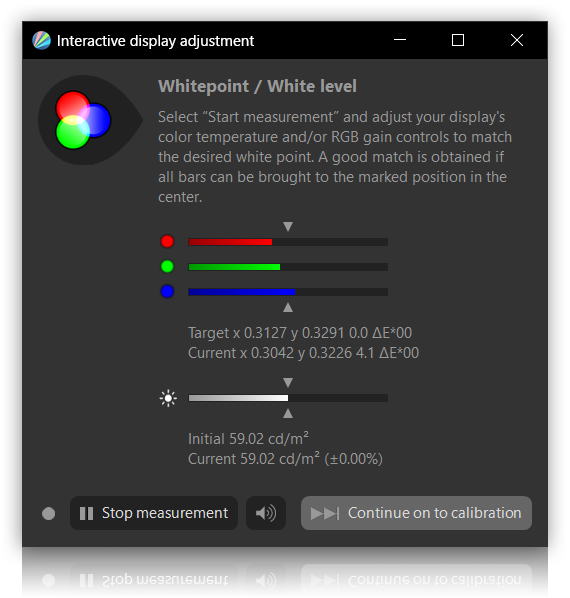
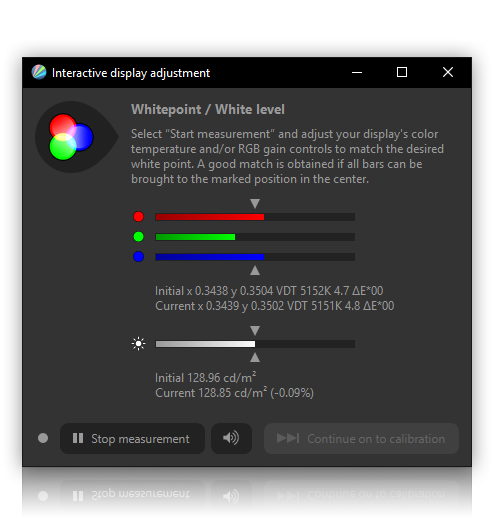
Update ReadMe teaser graphics: Use platform-specific assets
git-svn-id: https://svn.code.sf.net/p/dispcalgui/code/trunk@5109 6ae35eb0-b8ff-4ca7-919d-0ec1eff389cd

Changed region(s): [[0.0, 0.0, 0.9717, 0.9884], [0.4555, 0.834, 0.4858, 0.8649]]

diff --git a/theme/readme.js b/theme/readme.js
@@ -1,3 +1,10 @@
+(function () {
+	var protocol = location.protocol,
+		is_mac = navigator.userAgent.indexOf('Mac') > -1 || location.search.indexOf('is_mac') > -1,
+		is_win = (navigator.userAgent.indexOf('Windows') > -1 || location.search.indexOf('is_win') > -1) && location.search.indexOf('is_linux') < 0,
+		suffix = is_mac ? '-Mac' : (is_win ? '' : '-GNOME');
+	if (protocol == 'file:') protocol = 'https:';
+
 function $maketoggle(trigger_selector, toggle_selector, return_value) {
 	if (return_value == null) return_value = true;
 	$(trigger_selector).css('cursor', 'pointer').hover(function () {
@@ -32,13 +39,14 @@ function $makeslider(container_selector, toggle_selector, class_name, effect) {
 
 function $splash_anim(i, splash_frames) {
 	if (i == splash_frames.length) {
+		var width = (is_mac ? 816 : (is_win ? 752 : 762));
 		$('#splash').fadeOut(566, function () {
 			$('#splash_version_string, .splash_anim').hide();
 			$('#splash').addClass('folded');
 			$('#splash').css({'background-image': 'url(' + imgs.pop().src + ')',
-							  'background-size': '752px auto',
+							  'background-size': width + 'px auto',
 							  'display': 'block',
-							  'width': '760px', 'height': '660px', 'top': '42px'});
+							  'width': width + 'px', 'height': '660px', 'top': '42px'});
 			setTimeout(function () {
 				$('#splash').addClass('unfold');
 				if ($(window).height() <= $('#header').outerHeight(true) + 64 && 
@@ -63,8 +71,6 @@ function $splash_anim(i, splash_frames) {
 var img, imgs = [], imgpaths = ['theme/splash.png', 'theme/splash_version.png', 'theme/splash_anim.png'];
 
 jQuery(function ($) {
-	var protocol = location.protocol;
-	if (protocol == 'file:') protocol = 'https:';
 
 	/* Infobox slider */
 	$('<div id="info-link-box"><a href="#info">i</a></div>').prependTo('#infobox');
@@ -188,13 +194,13 @@ jQuery(function ($) {
 				});
 			}, 500);
 		}
-		imgpaths.push('theme/DisplayCAL-main_window-shadow.png');
+		imgpaths.push('theme/DisplayCAL-main_window-shadow' + suffix + '.png');
 		/* Load images */
 		for (var i = 0; i < imgpaths.length; i ++) {
 			img = new Image();
 			imgs.push(img);
 			img.onload = splash_onload;
-			if (imgpaths[i] == 'theme/DisplayCAL-main_window-shadow.png')
+			if (imgpaths[i] == 'theme/DisplayCAL-main_window-shadow' + suffix + '.png')
 				img.src = imgpaths[i];
 			else
 				img.src = protocol + '//displaycal.net/' + imgpaths[i];
@@ -205,10 +211,10 @@ jQuery(function ($) {
 	var interval = setInterval(function () {
 		jQuery('#teaser img').fadeOut(750, function () {
 			var src;
-			if (jQuery('#teaser img').attr('src').indexOf('theme/DisplayCAL-adjust-reflection.png') > -1)
-				src = 'theme/DisplayCAL-main_window-reflection.png';
+			if (jQuery('#teaser img').attr('src').indexOf('theme/DisplayCAL-adjust-reflection' + suffix + '.png') > -1)
+				src = 'theme/DisplayCAL-main_window-reflection' + suffix + '.png';
 			else
-				src = 'theme/DisplayCAL-adjust-reflection.png';
+				src = 'theme/DisplayCAL-adjust-reflection' + suffix + '.png';
 			jQuery('#teaser img').attr('src', src).fadeIn(750);
 		});
 	}, 10000);
@@ -241,8 +247,6 @@ jQuery(function ($) {
 });
 
 jQuery(window).load(function () {
-	var protocol = location.protocol;
-	if (protocol == 'file:') protocol = 'https:';
 
 	/* Anchor scroll effect */
 	$.localScroll({hash: true, filter: ':not(a[href="#info"], #toc li:has(ul) > a)'});
@@ -251,8 +255,8 @@ jQuery(window).load(function () {
 	
 	/* Teaser */
 	setTimeout(function () {
-		var src = ['theme/DisplayCAL-main_window-reflection.png',
-				   'theme/DisplayCAL-adjust-reflection.png'][Math.round(Math.random())];
+		var src = ['theme/DisplayCAL-main_window-reflection' + suffix + '.png',
+				   'theme/DisplayCAL-adjust-reflection' + suffix + '.png'][Math.round(Math.random())];
 		jQuery('#teaser img').attr('src', src).fadeIn(750);
 	}, 500);
 	
@@ -304,7 +308,9 @@ jQuery(window).load(function () {
 				}
 			});
 	}
-});
+})
+
+})();
 
 // FHPE
 

diff --git a/theme/readme.css b/theme/readme.css
@@ -494,6 +494,30 @@ sup {
 	width: 264.983px;
 	height: 278px;
 }
+#teaser img[src$="adjust-reflection.png"] {
+	left: 2px;
+	position: relative;
+	top: 3px;
+}
+#teaser img[src$="adjust-reflection-GNOME.png"] {
+	left: 2px;
+	position: relative;
+}
+#teaser img[src$="window-reflection-GNOME.png"] {
+	left: -4px;
+	position: relative;
+	top: -5px;
+}
+#teaser img[src$="adjust-reflection-Mac.png"] {
+	left: 8px;
+	position: relative;
+	top: -5px;
+}
+#teaser img[src$="window-reflection-Mac.png"] {
+	left: 4px;
+	position: relative;
+	top: -5px;
+}
 #copyright {
 	color: #999;
 	font-size: 11px;
@@ -657,7 +681,7 @@ sup {
 }
 
 #splash.down:hover {
-	top: 272px !important;
+	top: 278px !important;
 }
 
 #splash, .splash_anim {
